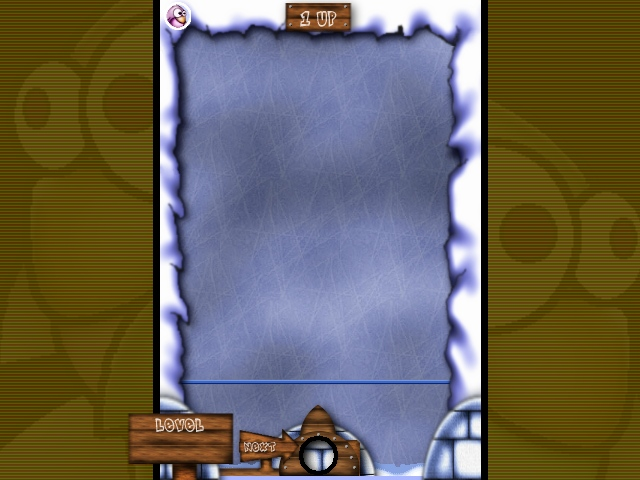
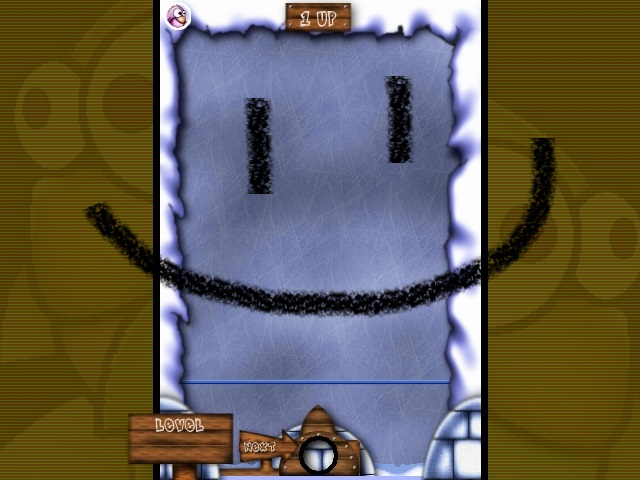
grafische Änderungen von Smiley auf Hintergund, Pinguin am Abschuss, Bubble mit Smiley und größer

Changed region(s): [[0.125, 0.2812, 0.875, 0.6875], [0.375, 0.1875, 0.4375, 0.4062], [0.5938, 0.1562, 0.6562, 0.3438]]

diff --git a/LaunchBubbleSprite.java b/LaunchBubbleSprite.java
@@ -79,8 +79,8 @@ public class LaunchBubbleSprite extends Sprite {
         
         // Create image
         if (backgroundImage == null || spritesImage == null) {
-            backgroundImage = applet.createImage(86, 3116);
-            spritesImage = applet.createImage(256, 1312);
+            backgroundImage = applet.createImage(1, 31);
+            spritesImage = applet.createImage(26, 112);
             spritesBlindImage = applet.createImage(256, 1312);
             
             createLauncherImages(applet);

diff --git a/EnterNameScreen.java b/EnterNameScreen.java
@@ -124,7 +124,7 @@ public class EnterNameScreen extends GameScreen
 						int moveRight = playerName.getFont().charSize(playerName.getText().charAt(playerName.getText().length()-1));
 						moveRight >>= 1;
 						
-						playerName.relativeMove(new Point(-moveRight-1, 0));
+						playerName.relativeMove(new Point(-moveRight-5, 0));
 					}
 				}
 				else if (keyCodes[0] == KeyEvent.VK_BACK_SPACE || 

diff --git a/LifeManager.java b/LifeManager.java
@@ -58,7 +58,7 @@ public class LifeManager extends Sprite
 	{
 		super(new Rectangle(529, 3, 107, 35));
 		
-		penguin = applet.getGameMedia().loadImage("life.gif");
+		penguin = applet.getGameMedia().loadImage();
 		
 		currentLife = NB_LIVES;
 	}
